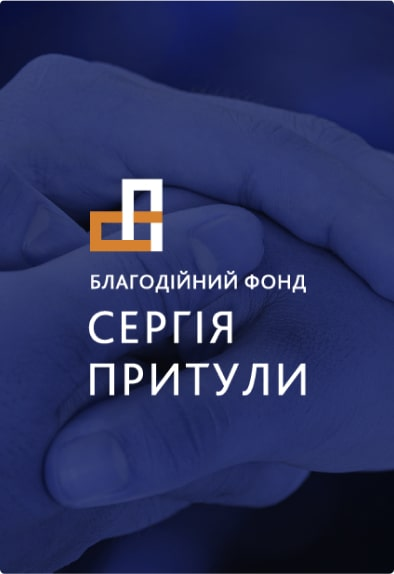
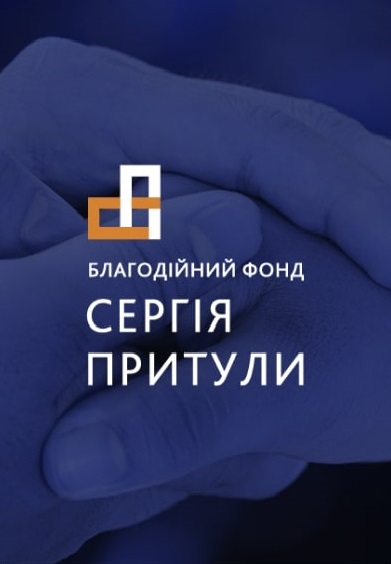
пофіксив-банер

diff --git a/src/sass/_layout.scss b/src/sass/_layout.scss
@@ -151,11 +151,14 @@ body {
 }
 
 .film__item__prytula{
-  text-align: center;
-  pointer-events: none;
   position: relative;
   max-width: 280px;
-
+   transition-property: transform;
+  transition-duration: 500ms;
+  transition-timing-function: cubic-bezier(0.4, 0, 0.2, 1);
+  &:hover {
+    transform: scale(1.02);
+  }
   @media screen and (min-width: 768px) {
 display: none;
   }
@@ -171,52 +174,34 @@ display: none;
     justify-content: flex-end;
     width: 280px;
     height: 442px;
-    border-radius: 5px;
+  border-radius: 5px;
     margin-bottom: 10px;
 
-    background-image: url('../images/card/prytula-mob.jpg');
+    background-image: url('../images/card/prytula-mob.png');
     @include retina {
-      background-image: url('../images/card/prytula-mob-x2.jpg');
+      background-image: url('../images/card/prytula-mob-x2.png');
     }
 
    
     @include desktop {
       width: 395px;
       height: 634px;
-      background-image: url('../images/card/prytula-desktop.jpg');
+      background-image: url('../images/card/prytula-desktop.png');
       @include retina {
-        background-image: url('../images/card/prytula-desktop-x2.jpg');
+        background-image: url('../images/card/prytula-desktop-x2.png');
       }
     }
     background-repeat: no-repeat;
     background-size: contain;
   }
 
-  & img {
-    width: 280px;
-    height: 402px;
-    border-radius: 5px;
-    margin-bottom: 10px;
 
-    @media screen and (min-width: 768px) {
-     
-      width: 336px;
-      height: 455px;
-    }
-
-    @media screen and (min-width: 1280px) {
-     
-      width: 395px;
-      height: 574px;
-    }
-  }
 
   & h2 {
     font-weight: 500;
     font-size: 12px;
     line-height: 1.17;
     text-transform: uppercase;
-    color: #000000;
 
     @media screen and (min-width: 768px) {
       line-height: 1.33;

diff --git a/src/js/renderCards.js b/src/js/renderCards.js
@@ -30,7 +30,7 @@ export function renderCards(data) {
         }
       )
       .join('') +
-    `<li class="film__item__prytula"><a href="https://prytulafoundation.org/" target="blank" class="film__item__prytula__link">
+    `<li class="film__item__prytula"><a onclick="event.stopPropagation()" href="https://prytulafoundation.org/" target="blank" class="film__item__prytula__link">
                   <h2>SUPPORT UKRAINE</h2>
                   <p>Support the Defense Forces of Ukraine</p>
                 </a>

diff --git a/src/sass/_theme-switcher.scss b/src/sass/_theme-switcher.scss
@@ -50,6 +50,9 @@
   .film__item h2 {
     color: #fff;
   }
+.film__item__prytula h2 {
+    color: #fff;
+  }
   .footer__container {
     color: #fff;
   }
